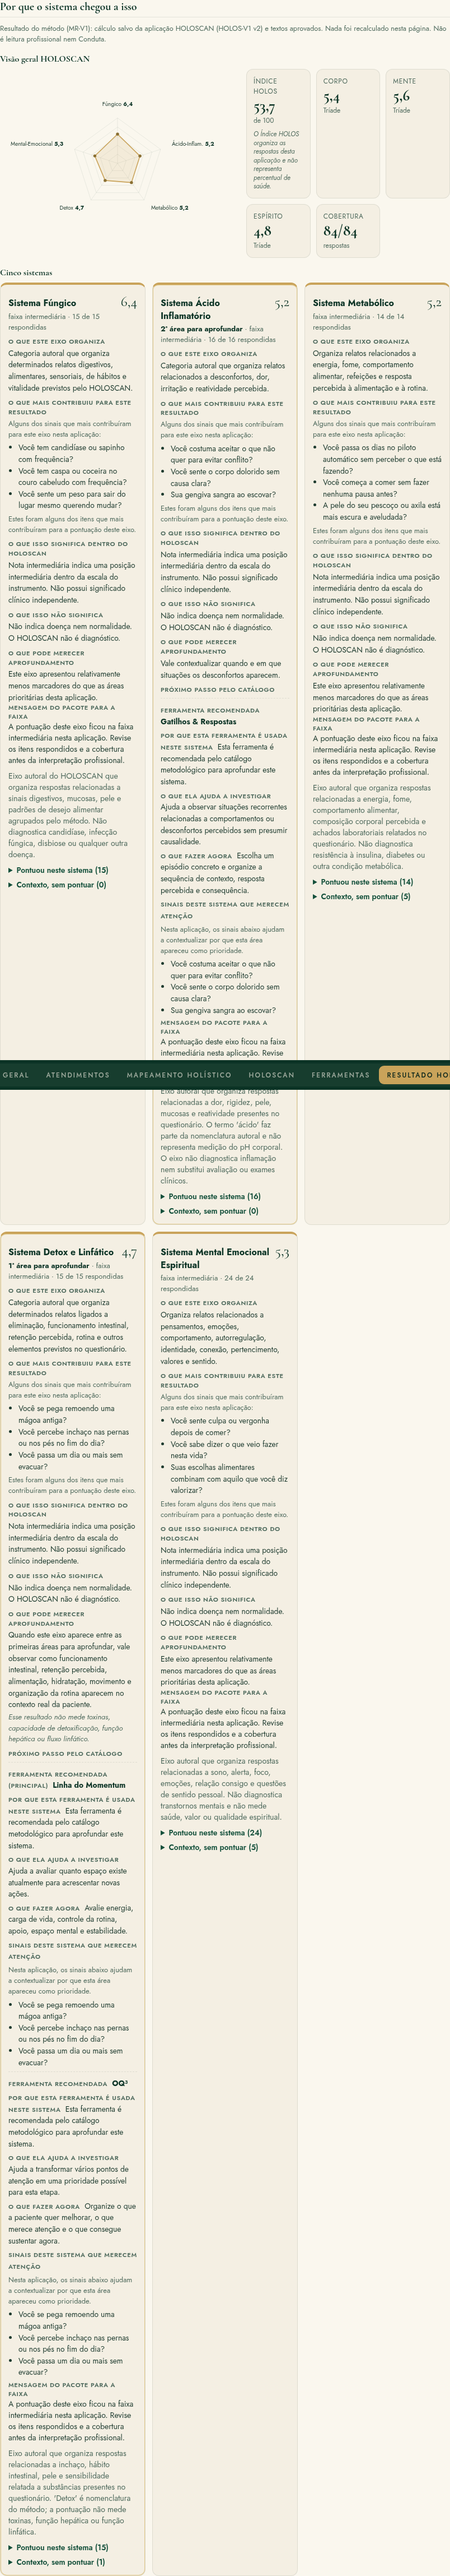
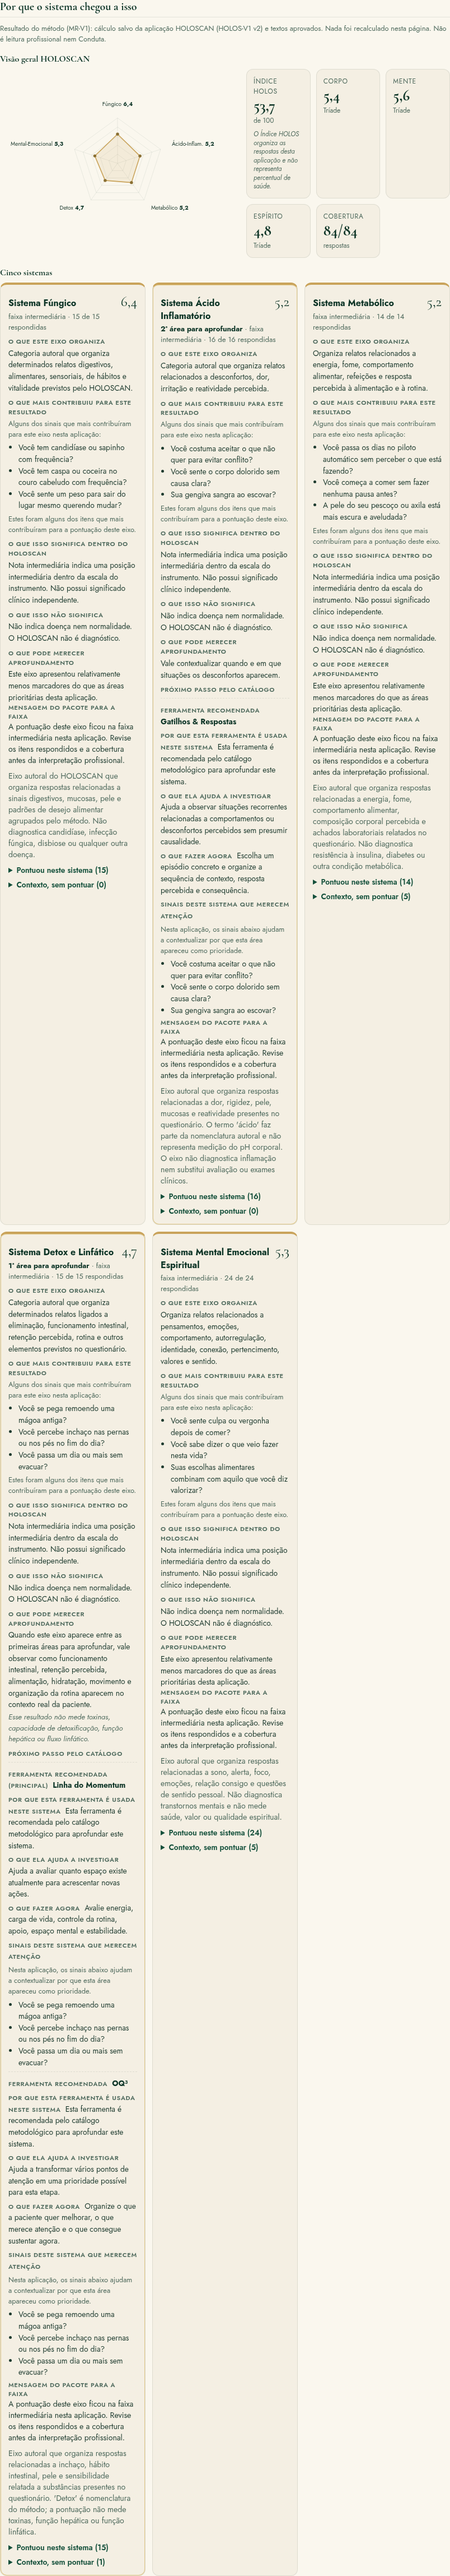
Resultado da paciente: capturas finais (sem barra fixa sobre a imagem) e resultado da suite
Claude-Session: https://claude.ai/code/session_018iLxAkFrJPcRJvTsgWQ3UZ

Changed region(s): [[0.0, 0.4046, 1.0, 0.4357]]

diff --git a/docs/v1/IMPLEMENTACAO-MOTOR-RESULTADOS-HOLOHACKING-V1.md b/docs/v1/IMPLEMENTACAO-MOTOR-RESULTADOS-HOLOHACKING-V1.md
@@ -734,4 +734,6 @@ Arquivos em `docs/v1/motor-resultados/ux-final/`:
   - `testar-ferramentas-resultado`
 - **Hashes:** `docs/deploy.md` §3.5 regenerado (6 arquivos mudaram).
 
+**Suíte completa: VERDE — 147 suítes, 4424 asserções, 0 falhas; 72 de 72 arquivos batem com docs/deploy.md §3.5.** Banco e SQL não mudaram nesta rodada.
+
 **PARE PARA HOMOLOGAÇÃO VISUAL FINAL.** Nenhum SQL foi aplicado e não houve deploy.
